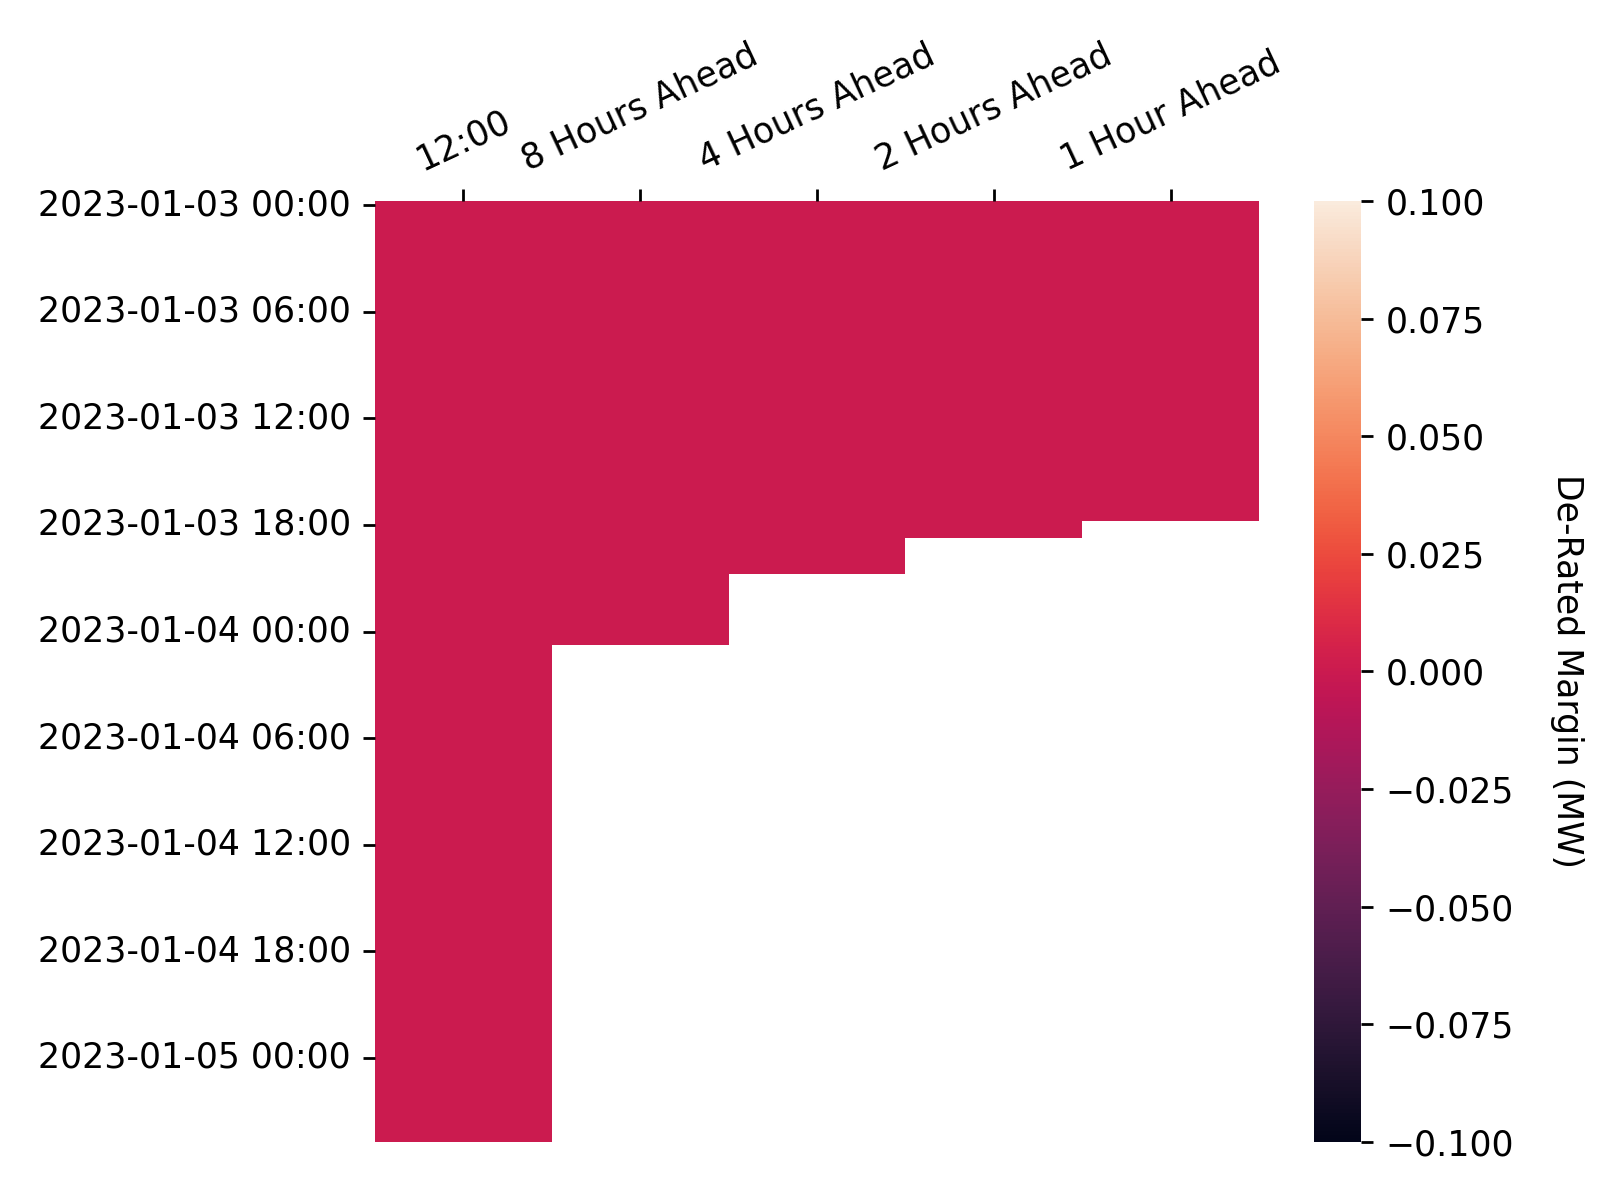
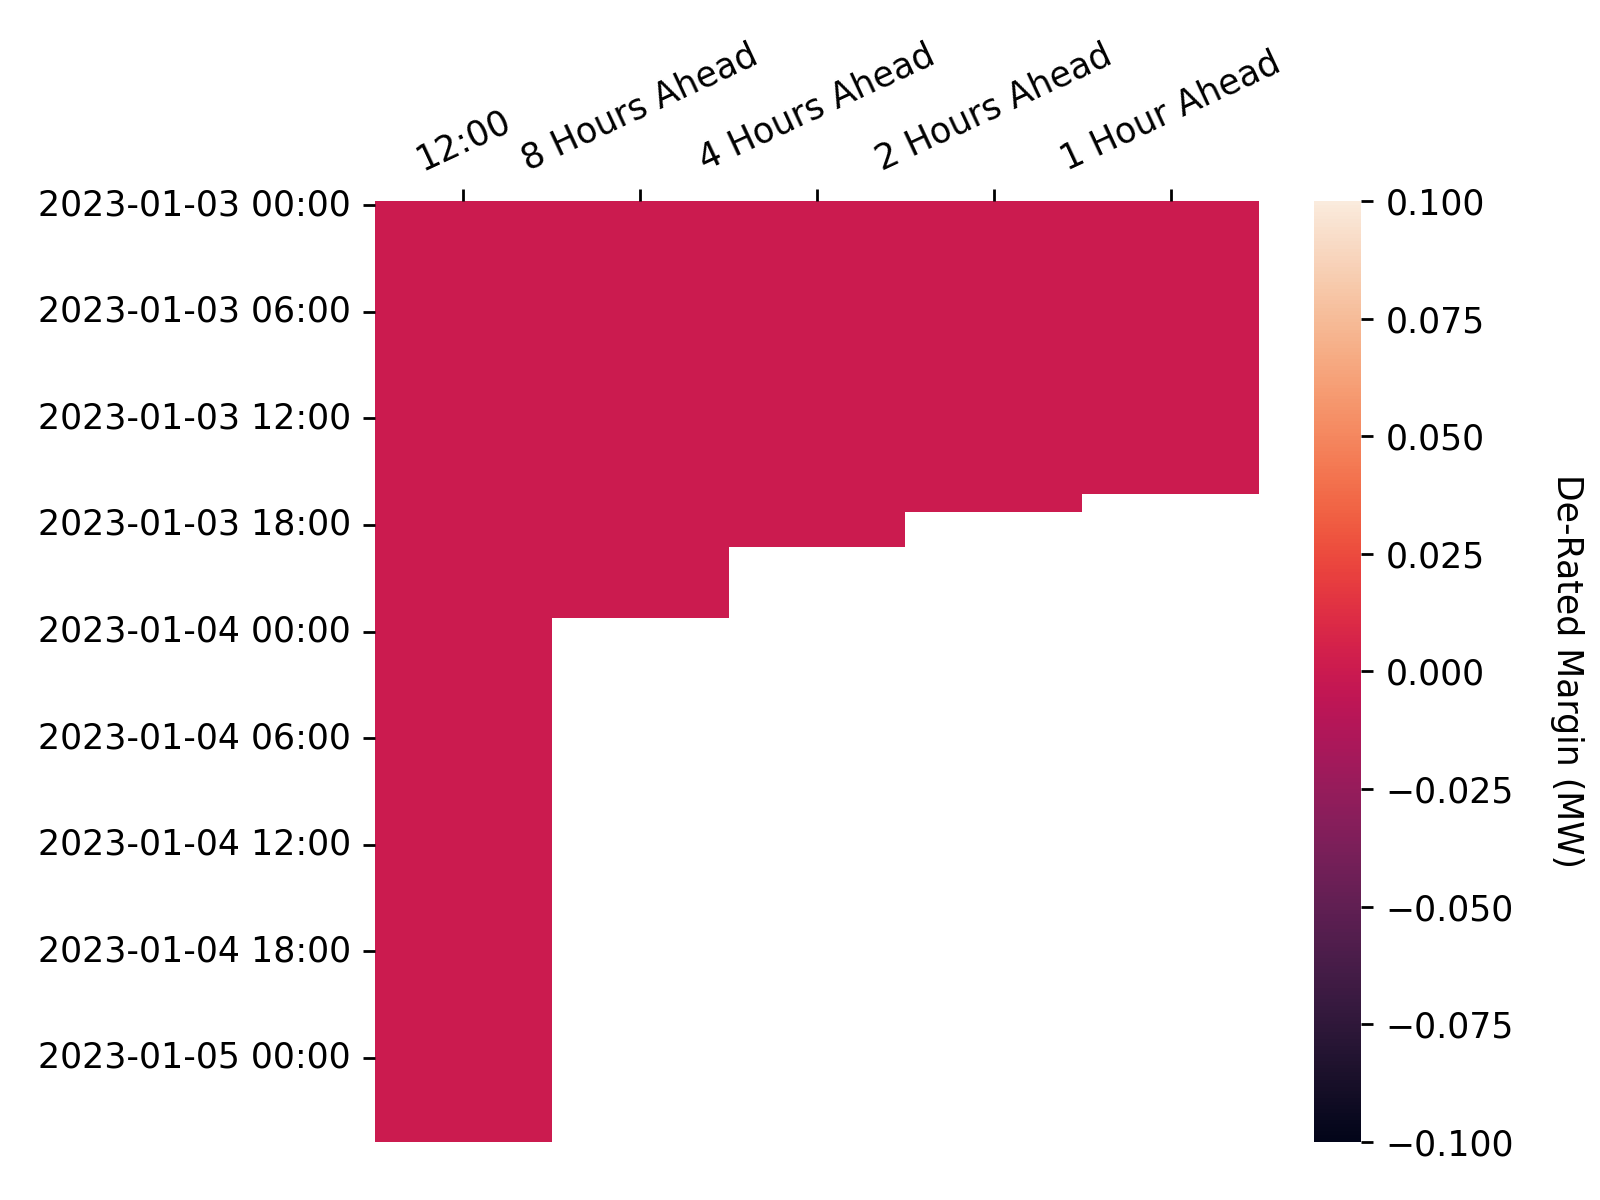
Apply automatic changes

Changed region(s): [[0.3438, 0.4008, 0.8125, 0.555]]

diff --git a/docs/js/map.js b/docs/js/map.js
@@ -144,7 +144,7 @@ document.addEventListener("DOMContentLoaded", function() {
                 follow: 1
             });
             mymap.addControl(sliderControl);
-            sliderControl.startSlider(333);
+            sliderControl.startSlider(334);
         });
     });
 });

diff --git a/docs/visualisations.md b/docs/visualisations.md
@@ -60,7 +60,7 @@ In each settlement period the system operator publishes the de-rated margin fore
 * At 1200 hours on each calendar day for all Settlement Periods for which Gate Closure has not yet passed and which occur within the current Operational Day or the following Operational Day; and
 * At eight, four, two and one hour(s) prior to the beginning of the Settlement Period to which the De-Rated Margin Forecast relates.
 
-These figures will be updated on an hourly basis, the last update was at: 2023-01-03 17:10
+These figures will be updated on an hourly basis, the last update was at: 2023-01-03 17:35
 
 <br>
 
@@ -83,7 +83,7 @@ The following heatmap shows how the more recent de-rated margin forecasts deviat
 
 ### Power Output Map
 
-Last Updated: 2023-01-03 17:10
+Last Updated: 2023-01-03 17:35
 
 This map shows the power output of individual plants connected to the transmission grid as stated in their most recent Physical Notifications. This data can be retrieved through the *PHYBMDATA* BMRS stream, the out-turn data can be viewed one week later through the *B1610* stream. The scrollbar at the top of the map can be used to view how the generation sources have changed their output over the last week, the layer control can be used to toggle on/off the transmission network, and the plants themselves can be clicked to reveal additional information. The plant location data used in this map has been taking from a sister project, [the Power Station Dictionary](https://osuked.github.io/Power-Station-Dictionary/), which aims to link between data about individual power plants.
 
